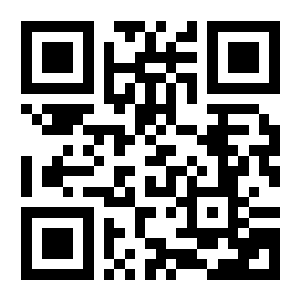
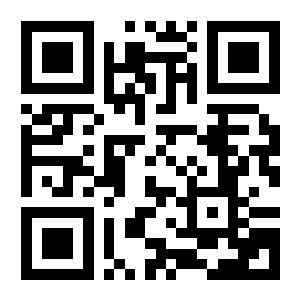
wa link

diff --git a/index.html b/index.html
@@ -125,7 +125,7 @@
 							<div class="home-button">
 								<!-- <a href="https://wa.link/raabct" data-toggle="modal" data-target="#contact-form-modal"
 									target="_blank">Kirim Pesan</a> -->
-								<a href="https://wa.link/3isrmd" target="_blank">Kirim Pesan Whatsapp</a>
+								<a href="https://wa.link/fvug0i" target="_blank">Kirim Pesan Whatsapp</a>
 							</div>
 						</div>
 					</div>
